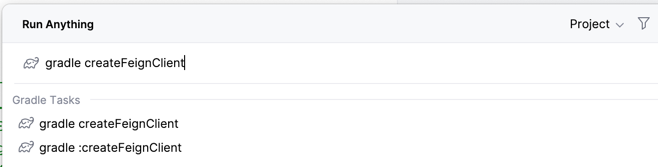
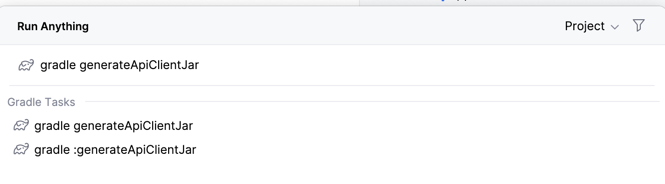
readme edt

diff --git a/README.MD b/README.MD
@@ -17,42 +17,41 @@
         implementation 'com.lets.apis.client.generator:lets-api-client-generator:1.0.0'
     }
 
+    apply from: 'https://raw.githubusercontent.com/vuraltamer/lets-api-client-generator/refs/heads/master/doc/generate-client.gradle'
+
 **create caller-config.properties file for service class**
 
-    com.lets.apis.client.generator.java-version= 17 //set your api version
-    com.lets.apis.client.generator.gradle-version= 8.5 //set your api version
-    com.lets.apis.client.generator.api-name= person-service-client
-    com.lets.apis.client.generator.scan-package= com.project.main // must be last package before the subpackages (if not specified, it scans all classes from the base package)
+    com.lets.apis.client.generator.java-version= 17 // OPTIONAL : set client jara version (default= 17)
+    com.lets.apis.client.generator.gradle-version= 8.5 // OPTIONAL : set gradle version for gradle wrapper (default=8.5)
+    com.lets.apis.client.generator.api-name= person-service-client // REQUIRED :
+    com.lets.apis.client.generator.api-client-path=/temp // OPTIONAL : default:your project directory
+    com.lets.apis.client.generator.scan-package= com.project.main // OPTIONAL : must be last package before the subpackages (if not specified, it scans all classes from the base package)
     com.lets.apis.client.generator.dependencies= [org.springframework.boot:spring-boot-starter-data-mongodb,\
-        \ sample:dependencies:1.0.0] // third party dependencies
+            \ sample:dependencies:1.0.0] // MAYBE REQUIRED : third party your dependencies for generating
 
 caller-config path : src/main/resources/caller-config.properties
 
 **generate feign client classes**
 
-add this task to build.gradle
+run this task with : apply from: 'https://raw.githubusercontent.com/vuraltamer/lets-api-client-generator/refs/heads/master/doc/generate-client.gradle'
 
-    tasks.register('createFeignClient', JavaExec) {
-        mainClass = 'com.lets.apis.client.generator.ApiClientGenerator'
-        classpath = sourceSets.main.runtimeClasspath
-        args = []
-    }
+    gradle generateApiClientJar
 
-**run createFeignClient**
+alternatively use this gradle codes from local generate-client.gradle : apply from: 'generate-client.gradle'
 
-createFeignClient task is executed, a .generator file is created in the project root
+    https://raw.githubusercontent.com/vuraltamer/lets-api-client-generator/refs/heads/master/doc/generate-client.gradle
 
 **lets try**
 
 - caller-config
 
-![img.png](img/img_4.png)
+![img.png](img/img.png)
 
 - services
 
 ![img_1.png](img/img_1.png)
 
-- run gradle createFeignClient command
+- run gradle generateApiClientJar task
  
 ![img_2.png](img/img_2.png)
 
